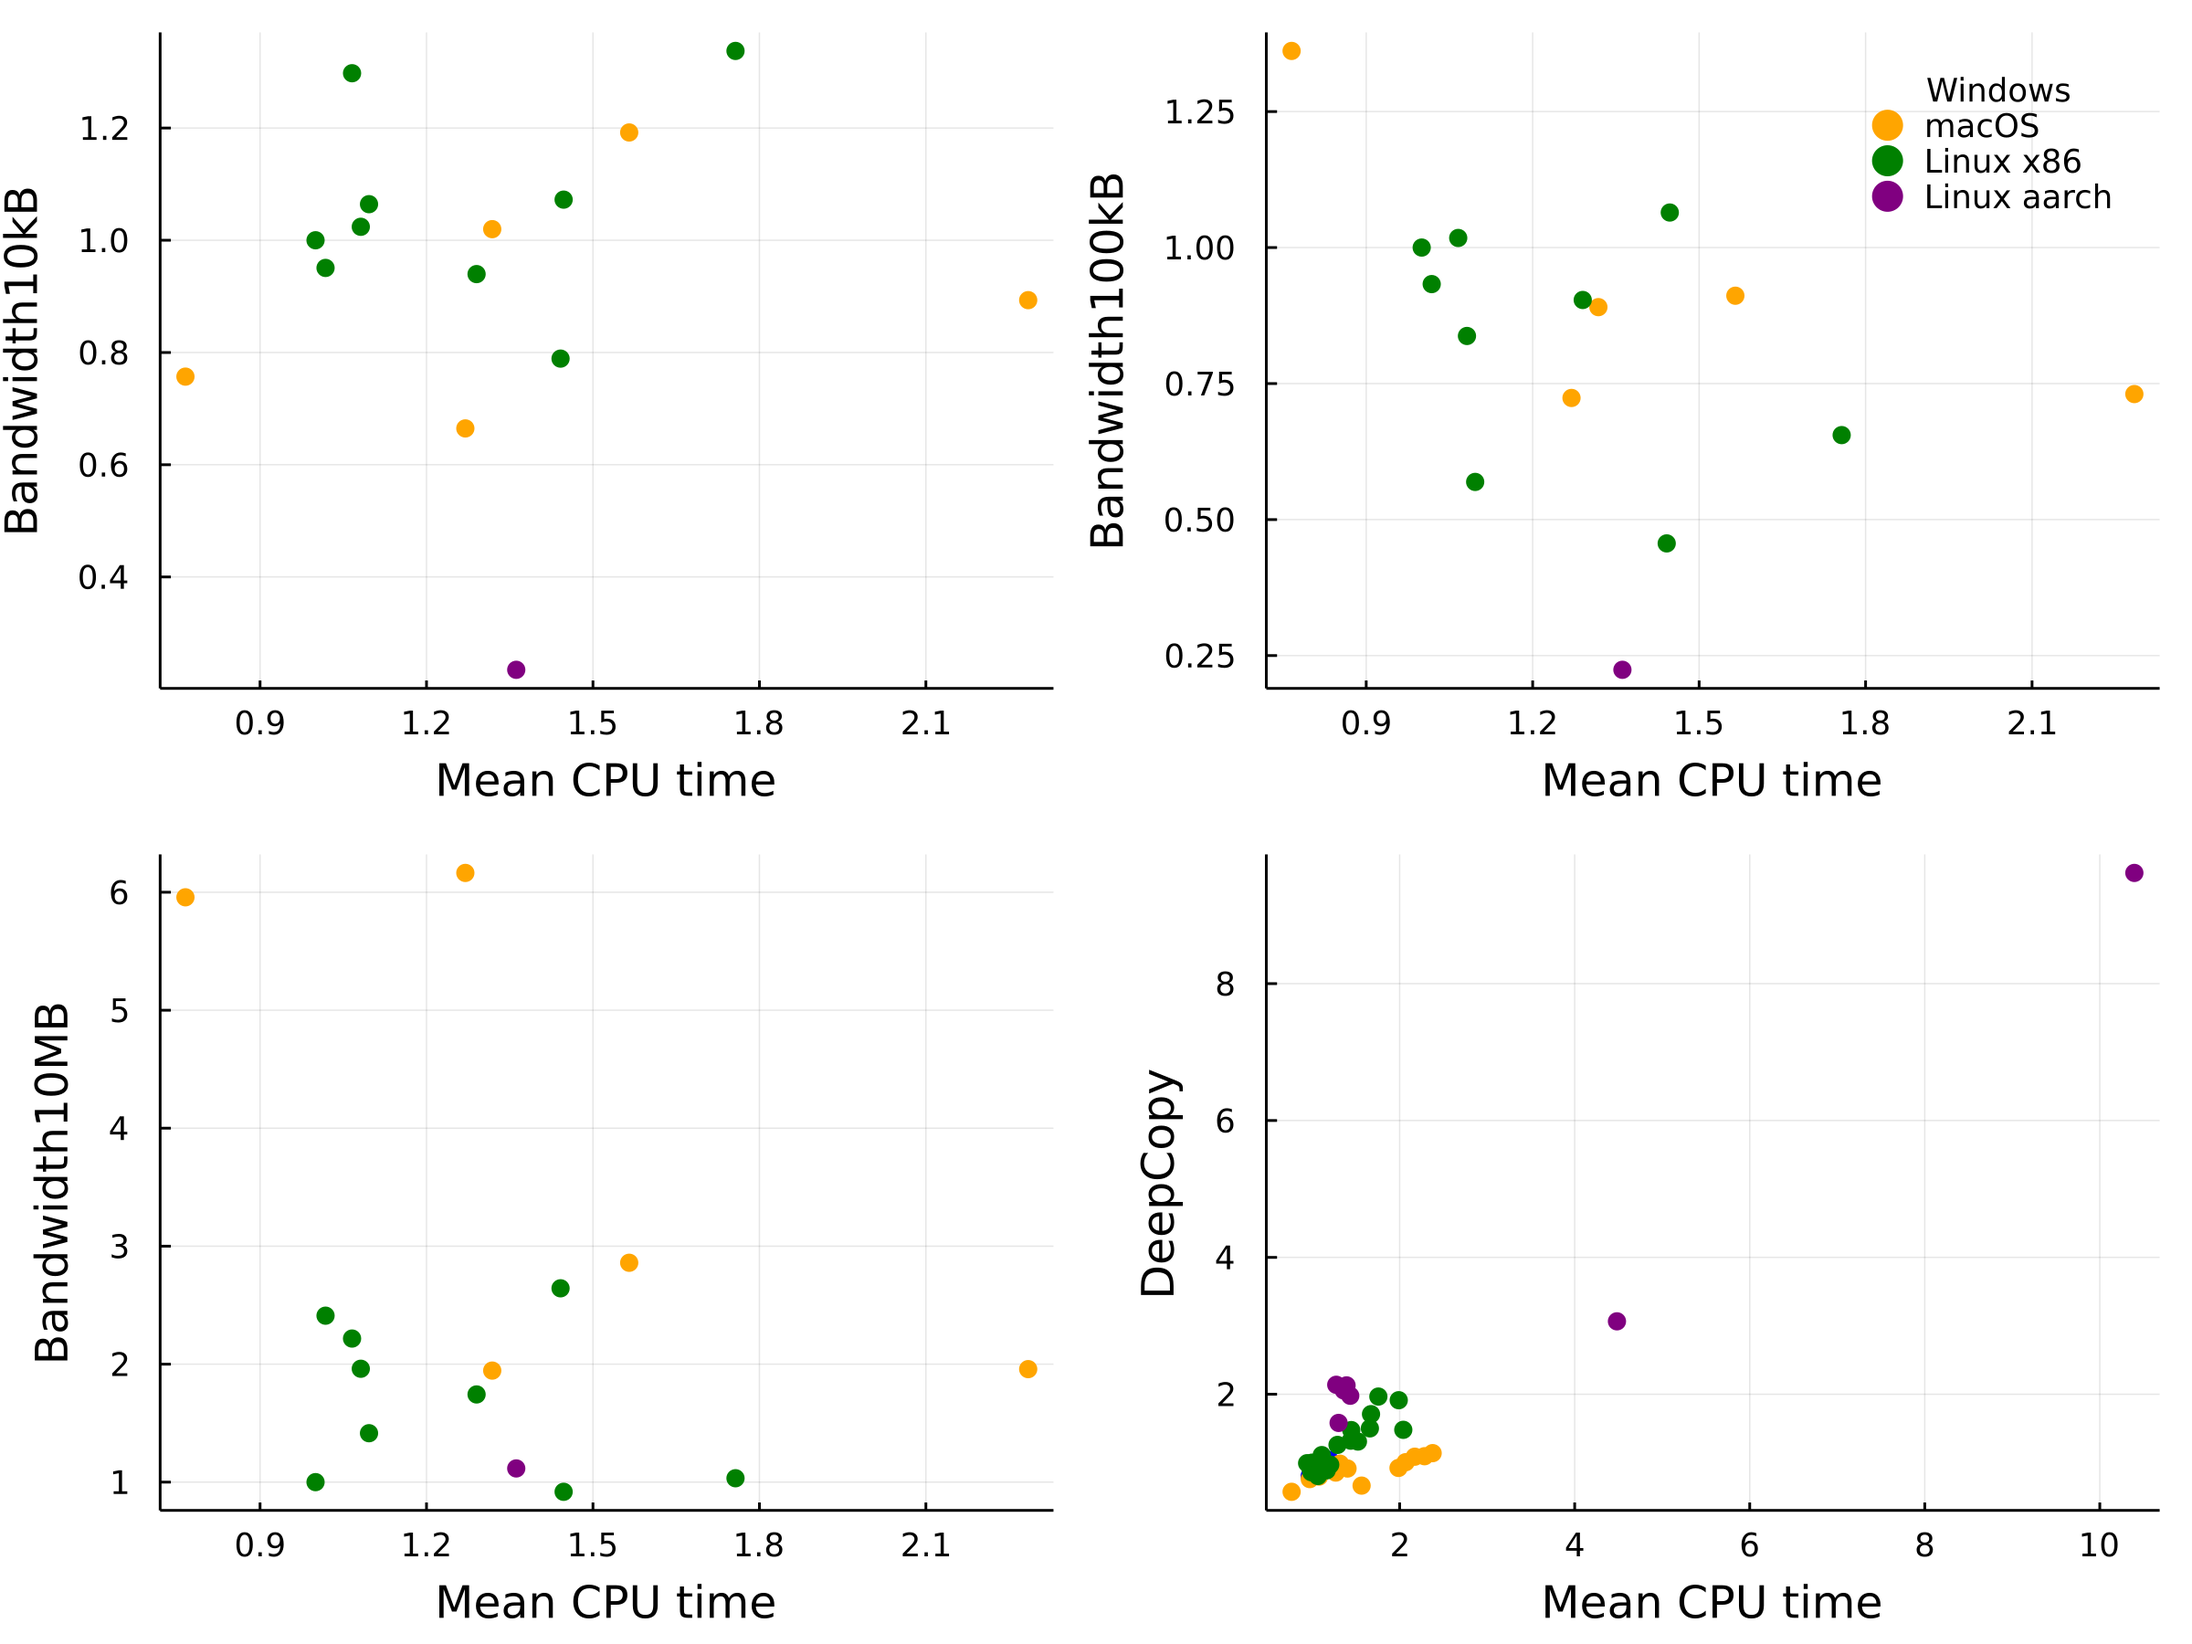
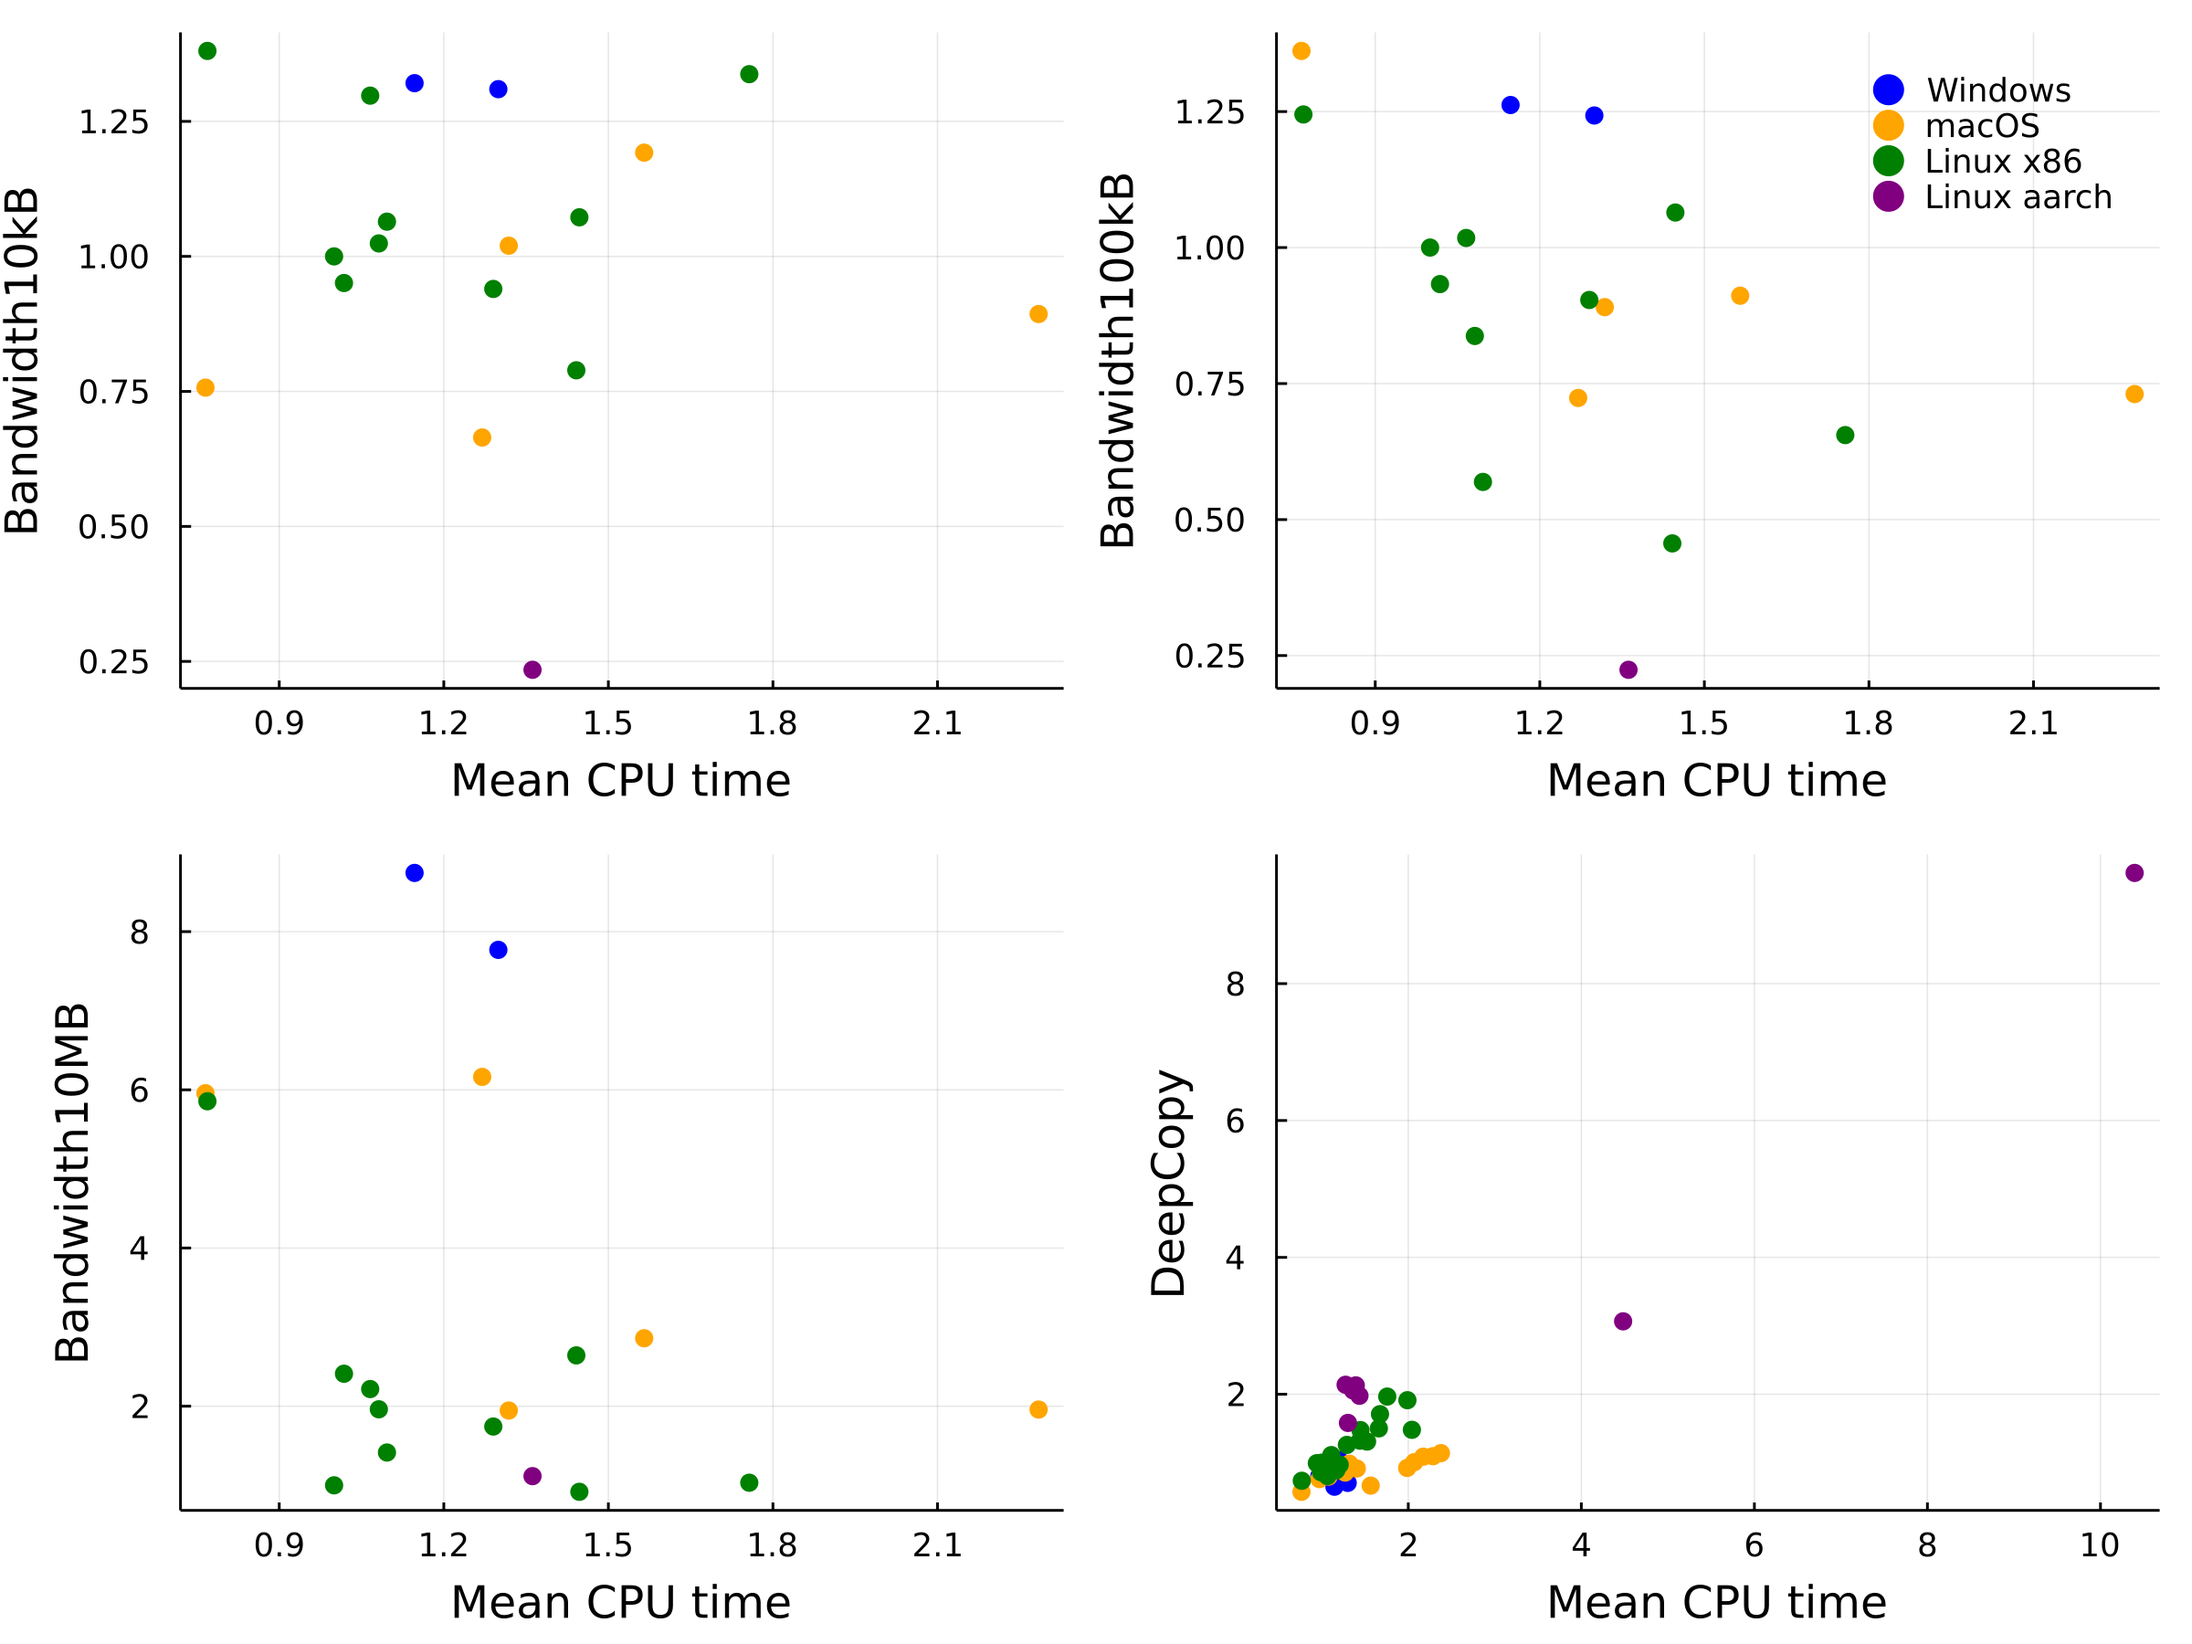
update crowdsourced data

diff --git a/README.md b/README.md
@@ -145,3 +145,5 @@ getsubmittedbenchmarks(;repo::String="ianshmean/SystemBenchmark.jl", issue::Int=
 
 Some basic plotting exists at [reporting/plotting.jl](https://github.com/ianshmean/SystemBenchmark.jl/reporting/plotting.jl), which hasn't been included in the main package due to limitations in platform compatability of Plots.jl.
 
+![Results summary](reporting/summary_report.png)
+
